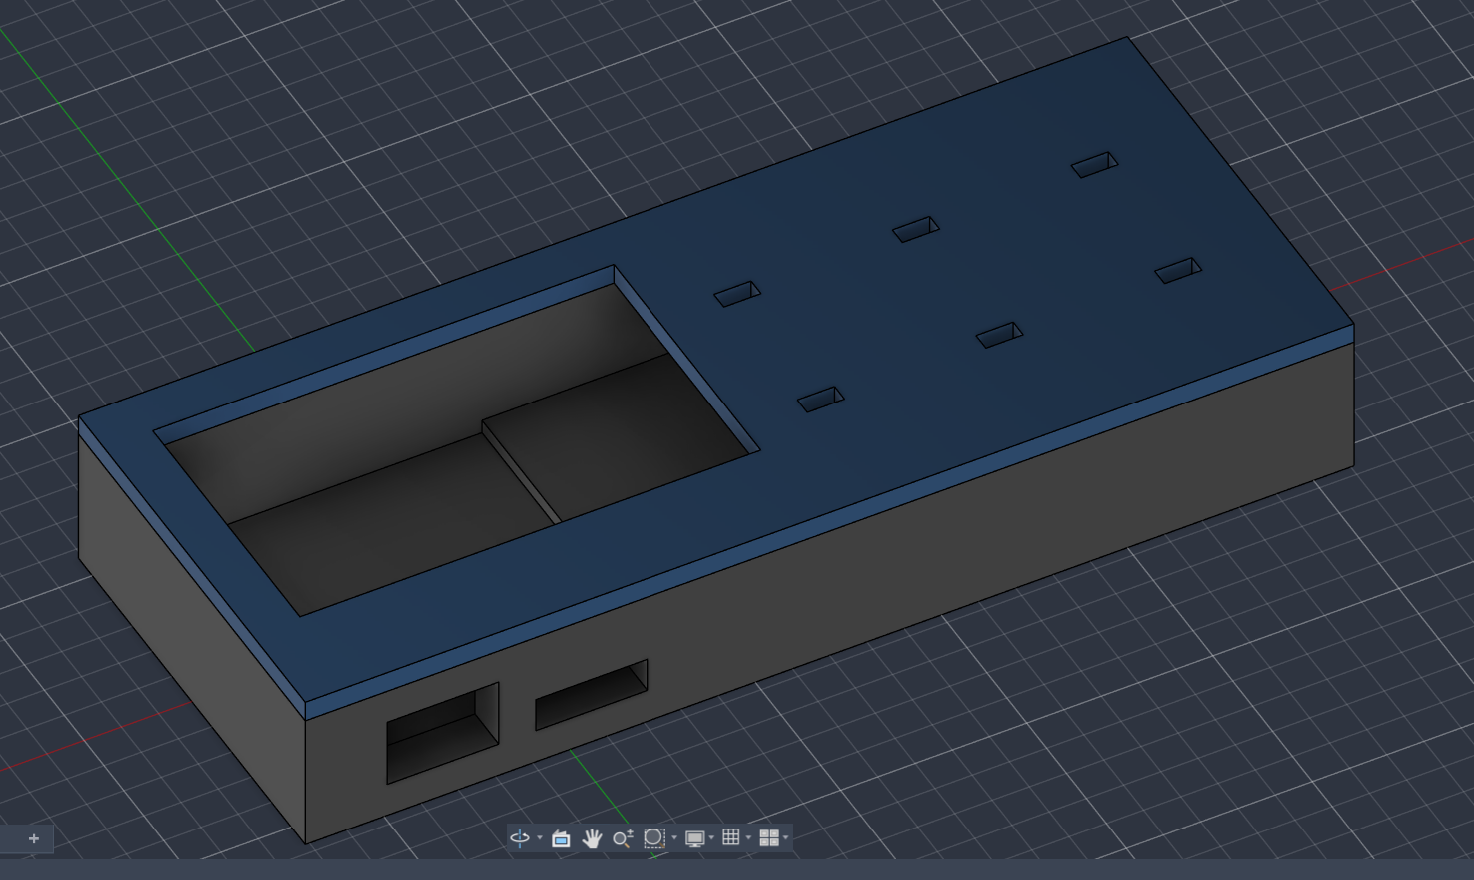
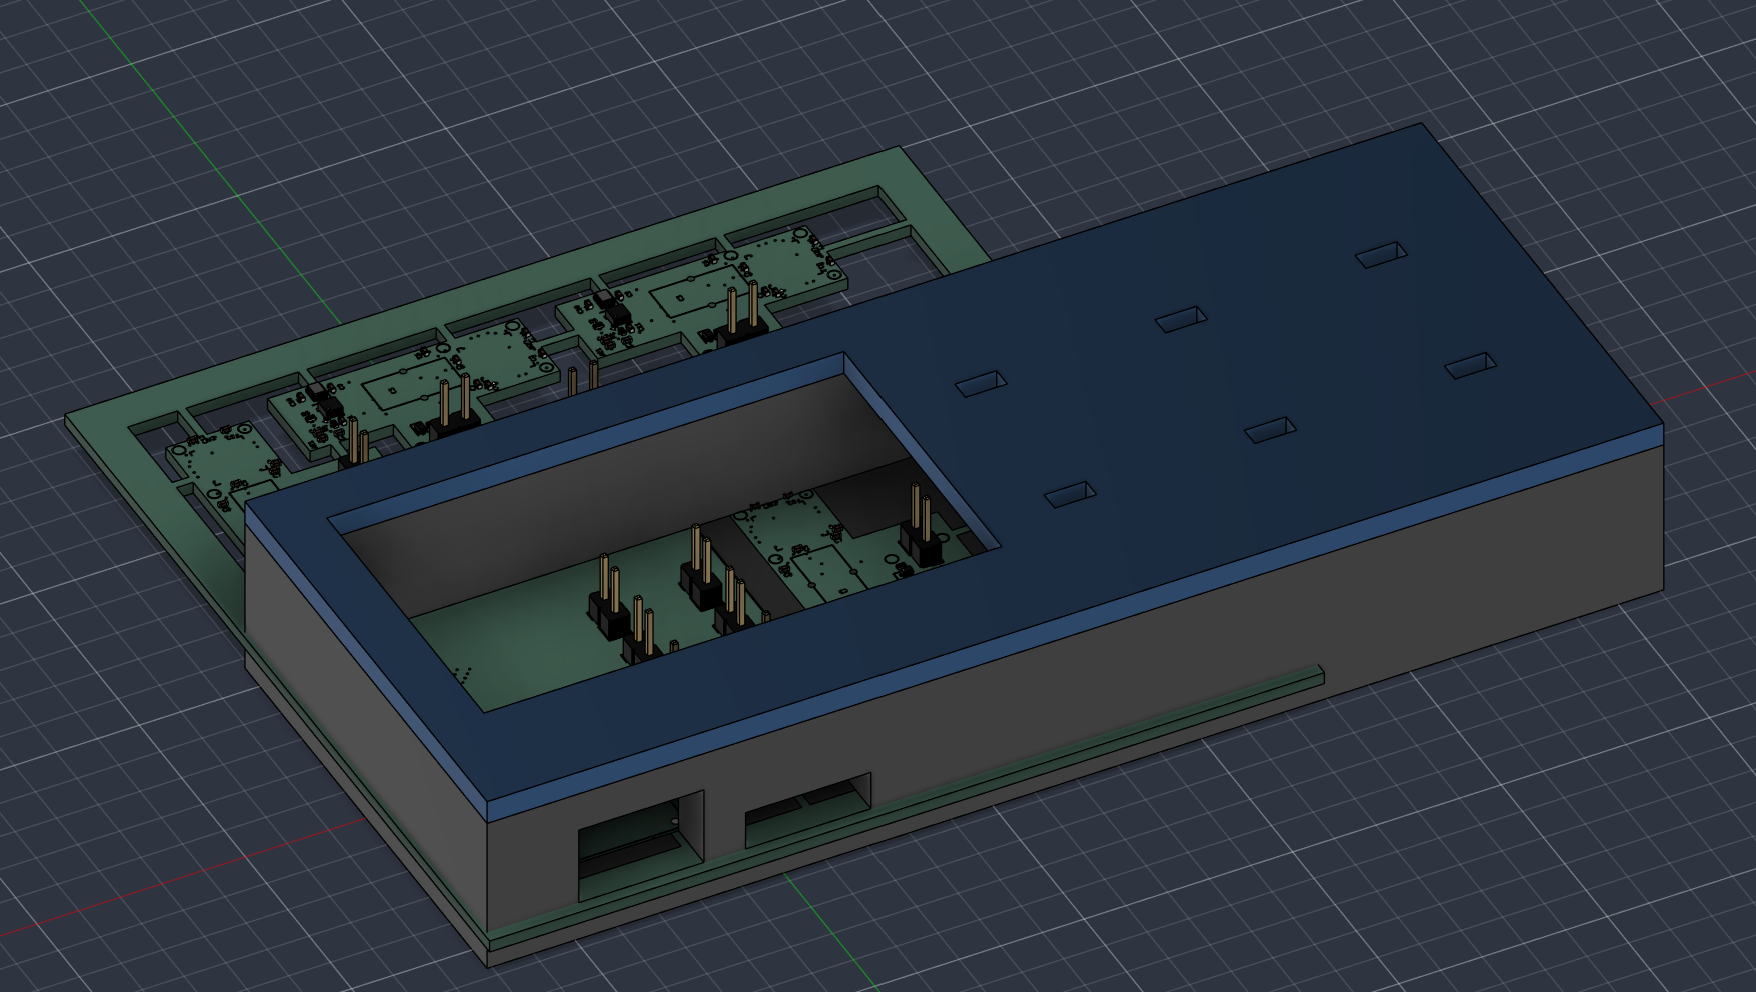
Update case render note and KiCad panel layout
Updated the README to clarify that the case render shows the PCB protruding because the panelized model is not cut apart, which is only a visual artifact for the mockup. Also adjusted the KiCad panel report column widths to match the current board layout.

diff --git a/README.md b/README.md
@@ -13,6 +13,8 @@ PCB Back:
 <img width="1220" height="843" alt="image" src="Images/PCBBack.png" />
 Hub Case:
 <img width="1220" height="843" alt="image" src="Images/Case.png" />
+This one ^ has the pcb sticking out because I don't know how to cut the model apart and it's panelized. Won't 
+be an issue on the physical one. <br>
 Costs: <a href="https://www.amazon.com/hz/wishlist/ls/28VBMUP4FWW5W?ref_=wl_share">Amazon List</a><br>
 -PCB+Stencil - $15<br>
 -Battery+Magnets+Display - $40<br>
